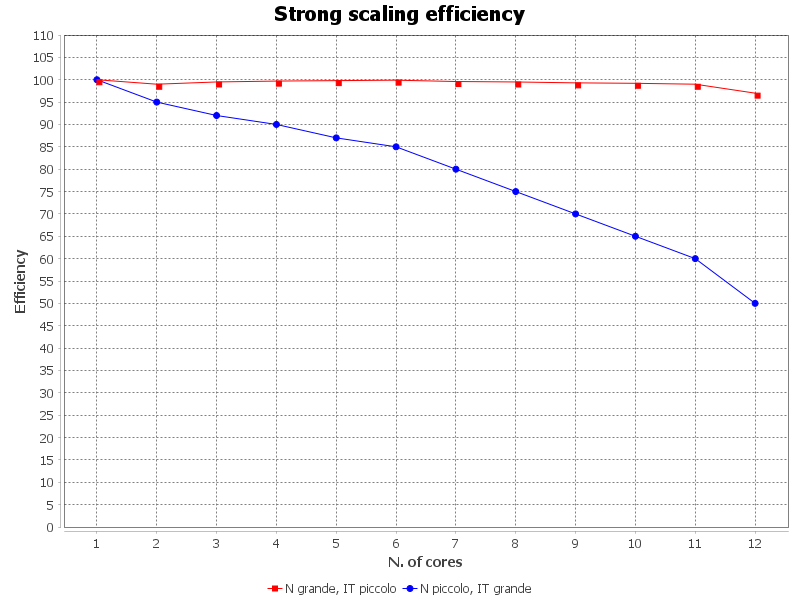
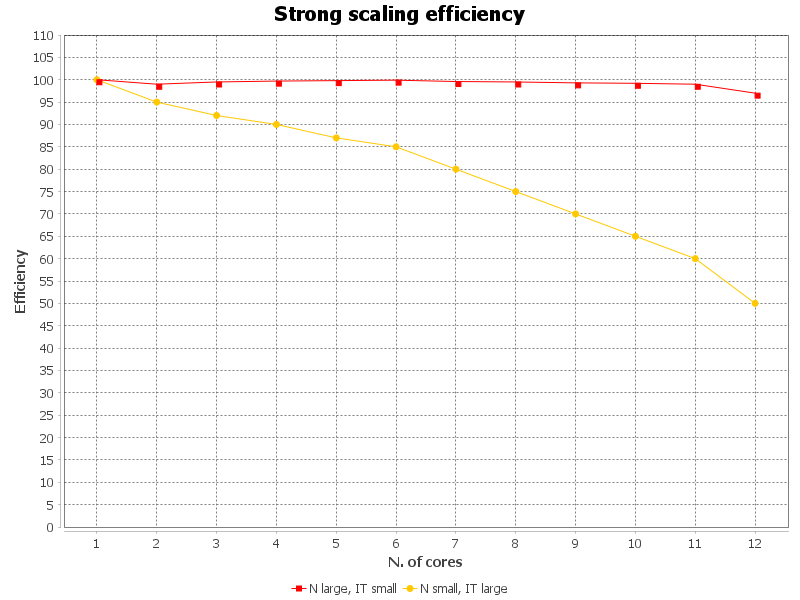
✨ Make possible to insert variable dataseries

diff --git a/src/ChartGenerator.java b/src/ChartGenerator.java
@@ -1,0 +1,124 @@
+import org.jfree.chart.ChartFactory;
+import org.jfree.chart.ChartUtils;
+import org.jfree.chart.JFreeChart;
+import org.jfree.chart.axis.NumberAxis;
+import org.jfree.chart.plot.PlotOrientation;
+import org.jfree.chart.plot.XYPlot;
+import org.jfree.chart.renderer.xy.XYLineAndShapeRenderer;
+import org.jfree.data.xy.XYSeries;
+import org.jfree.data.xy.XYSeriesCollection;
+import java.awt.*;
+import java.io.File;
+import java.io.IOException;
+import java.util.List;
+
+public class ChartGenerator {
+
+    /**
+     * Creates and saves a line chart with a variable number of data series.
+     *
+     * @param outputPath    The file path where the chart image will be saved.
+     * @param title         The title of the chart.
+     * @param xAxisLabel    The label for the X-axis.
+     * @param yAxisLabel    The label for the Y-axis.
+     * @param isPercentage  Format Y-axis to percentage format style.
+     * @param dataSeries    A list of tuples containing the X values, Y values, and label for each series.
+     */
+    public static void createLineChart(String outputPath, String title, String xAxisLabel, String yAxisLabel,
+                                       boolean isPercentage, List<DataSeries<List<Double>, List<Double>, String>> dataSeries) {
+        XYSeriesCollection dataset = new XYSeriesCollection();
+
+        for (DataSeries<List<Double>, List<Double>, String> seriesData : dataSeries) {
+            XYSeries series = new XYSeries(seriesData.third);
+            List<Double> xData = seriesData.first;
+            List<Double> yData = seriesData.second;
+            for (int i = 0; i < xData.size(); i++) {
+                series.add(xData.get(i), yData.get(i));
+            }
+            dataset.addSeries(series);
+        }
+
+        // Create chart
+        JFreeChart chart = ChartFactory.createXYLineChart(
+                title,
+                xAxisLabel,
+                yAxisLabel,
+                dataset,
+                PlotOrientation.VERTICAL,
+                true,
+                false,
+                false
+        );
+
+        XYPlot plot = chart.getXYPlot();
+
+        // Configure X-axis for integer values
+        NumberAxis xAxis = (NumberAxis) plot.getDomainAxis();
+        xAxis.setStandardTickUnits(NumberAxis.createIntegerTickUnits());
+
+        // Configure Y-axis
+        if (isPercentage) {
+            NumberAxis yAxis = (NumberAxis) plot.getRangeAxis();
+            yAxis.setRange(0, 110);
+            yAxis.setLabel(yAxisLabel);
+        } else {
+            NumberAxis yAxis = (NumberAxis) plot.getDomainAxis();
+            yAxis.setStandardTickUnits(NumberAxis.createIntegerTickUnits());
+        }
+
+        // Set white background
+        plot.setBackgroundPaint(Color.WHITE);
+
+        // Configure dotted grid lines
+        plot.setDomainGridlinePaint(Color.GRAY);
+        plot.setDomainGridlineStroke(new BasicStroke(1.0f, BasicStroke.CAP_BUTT, BasicStroke.JOIN_BEVEL, 0, new float[]{2.0f, 2.0f}, 0));
+        plot.setRangeGridlinePaint(Color.GRAY);
+        plot.setRangeGridlineStroke(new BasicStroke(1.0f, BasicStroke.CAP_BUTT, BasicStroke.JOIN_BEVEL, 0, new float[]{2.0f, 2.0f}, 0));
+
+        // Configure line styles and markers with rainbow colors
+        XYLineAndShapeRenderer renderer = new XYLineAndShapeRenderer();
+        Color[] rainbowColors = {Color.RED, Color.ORANGE, Color.YELLOW, Color.GREEN, Color.BLUE, Color.MAGENTA};
+        for (int i = 0; i < dataSeries.size(); i++) {
+            renderer.setSeriesShapesVisible(i, true);
+            renderer.setSeriesPaint(i, rainbowColors[i % rainbowColors.length]);
+            if (i % 2 == 0) {
+                renderer.setSeriesShape(i, new Rectangle(5, 5));
+            } else {
+                renderer.setSeriesShape(i, new java.awt.geom.Ellipse2D.Double(-3, -3, 6, 6));
+            }
+        }
+        plot.setRenderer(renderer);
+
+        // Save image
+        try {
+            ChartUtils.saveChartAsPNG(new File(outputPath), chart, 800, 600);
+        } catch (IOException e) {
+            e.printStackTrace();
+        }
+    }
+
+    public static void main(String[] args) {
+        // Example usage
+        createLineChart(
+                "strongScalingChart.png",
+                "Strong scaling efficiency",
+                "N. of cores",
+                "Efficiency",
+                true,
+                List.of(
+                        new DataSeries<>(List.of(1.0, 2.0, 3.0, 4.0, 5.0, 6.0, 7.0, 8.0, 9.0, 10.0, 11.0, 12.0),
+                                List.of(100.0, 99.0, 99.5, 99.7, 99.8, 99.9, 99.6, 99.5, 99.3, 99.2, 99.0, 97.0),
+                                "N large, IT small"),
+                        new DataSeries<>(List.of(1.0, 2.0, 3.0, 4.0, 5.0, 6.0, 7.0, 8.0, 9.0, 10.0, 11.0, 12.0),
+                                List.of(100.0, 95.0, 92.0, 90.0, 87.0, 85.0, 80.0, 75.0, 70.0, 65.0, 60.0, 50.0),
+                                "N small, IT large")
+                )
+        );
+    }
+
+    /**
+         * A helper class to store three related objects together.
+         */
+        public record DataSeries<T, U, V>(T first, U second, V third) {
+    }
+}
